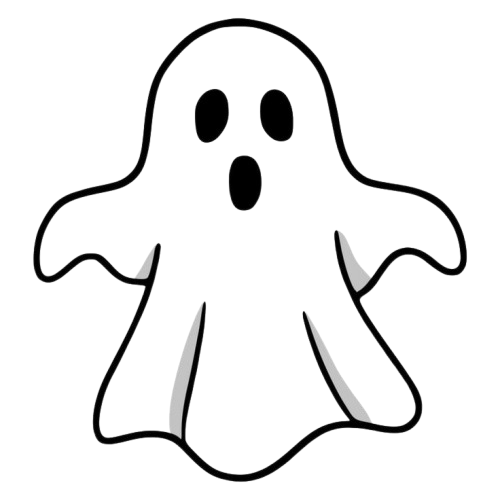
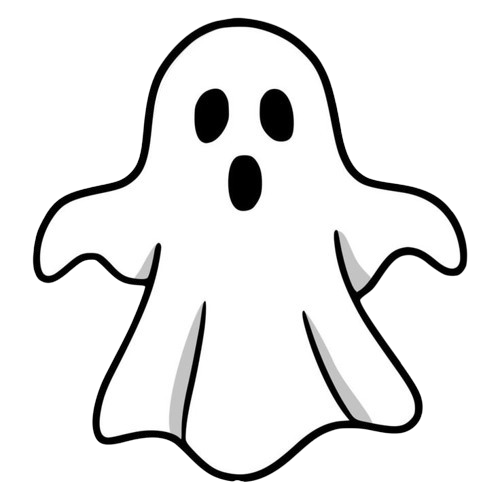
changed ghost image and bg color of homepage

diff --git a/style.css b/style.css
@@ -5,6 +5,13 @@ body{
     color: #f5f0e6;
     margin: 0;
     padding: 0;
+    min-height: 100vh;
+    display: flex;
+    flex-direction: column;
+}
+
+body.home{
+    background-color: #2e1a47;
 }
 
 .navbar{
@@ -33,21 +40,37 @@ body{
 }
 
 .hero{
-    max-width: 600px;
-    margin: 60px auto;
-    padding: 0 20px;
-    text-align: center;
+    margin: 60px 0;
+}
+
+.hero-inner{
+    max-width: 1000px;
+    margin: 0 auto;
+    display: flex;
+    align-items: center;
+    justify-content: space-between;
+    gap: 40px;
+    flex-wrap: wrap;
+}
+
+.hero-text{
+    flex: 1;
+    min-width: 260px;
+    text-align: left;
 }
 
 .hero-image{
-    height: 220px;
-    border: 2px dashed #ff7518;
-    border-radius: 8px;
+    flex: 1;
+    min-width: 260px;
     display: flex;
     align-items: center;
     justify-content: center;
-    color: #ff7518;
-    margin-bottom: 30px;
+}
+
+.hero-image img{
+    max-width: 320px;
+    width: 100%;
+    height: auto;
 }
 
 .hero h1{
@@ -129,7 +152,8 @@ body{
 
 footer{
     text-align: center;
-    padding: 20px;
+    padding: 10px;
     background-color: #000000;
     color: #ff7518;
+    margin-top: auto;
 }

diff --git a/index.html b/index.html
@@ -3,17 +3,21 @@
     <title>Spooky Reads</title>
     <link rel="stylesheet" href="style.css">
 </head>
-<body>
+<body class="home">
     <nav class="navbar">
         <div class="logo">Spooky Reads</div>
     </nav>
     <section class="hero">
+        <div class="hero-inner">
+        <div class="hero-text">
+            <h1>Spooky Reads</h1>
+            <p>Crime, Thriller and Suspense books to read with the lights off.</p>
+            <a href="books.html" class="main-button">See Book Recs</a>
+        </div>
         <div class="hero-image">
             <img src="ghost.png">
         </div>
-        <h1>Spooky Reads</h1>
-        <p>Crime, Thriller and Suspense books to read with the lights off</p>
-        <a href="books.html" class="main-button">See Book Recs</a>
+        </div>
     </section>
     <footer>
         <p>Made with ❤ by Aditya</p>
